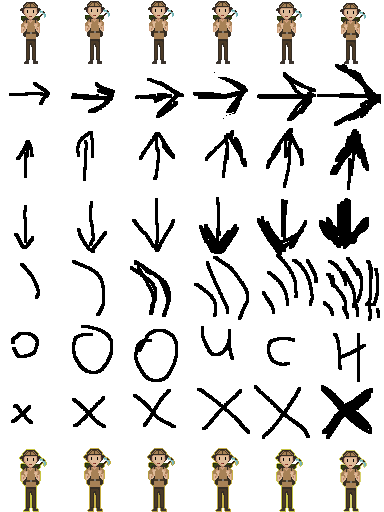
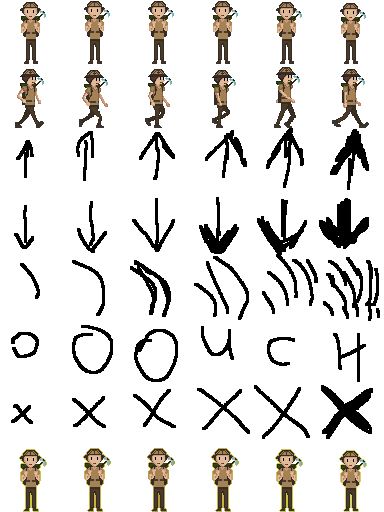
added other character walking animations and temporary giovanni damaged animation and attacking animation

diff --git a/LostInTheMap/animator.cpp b/LostInTheMap/animator.cpp
@@ -108,7 +108,7 @@ void animator::start_animation(IAnimatable* ac, animations type, void(*done_call
 				already_there = true;
 			dc->flipped_x = false;
 		}
-		ac->total_sprite_required_time = 100;
+		ac->total_sprite_required_time = 150;
 		ac->cur_row = 4;
 	}
 		break;
@@ -121,7 +121,7 @@ void animator::start_animation(IAnimatable* ac, animations type, void(*done_call
 				already_there = true;
 			dc->flipped_x = true;
 		}
-		ac->total_sprite_required_time = 100;
+		ac->total_sprite_required_time = 150;
 		ac->cur_row = 4;
 	}
 		break;
